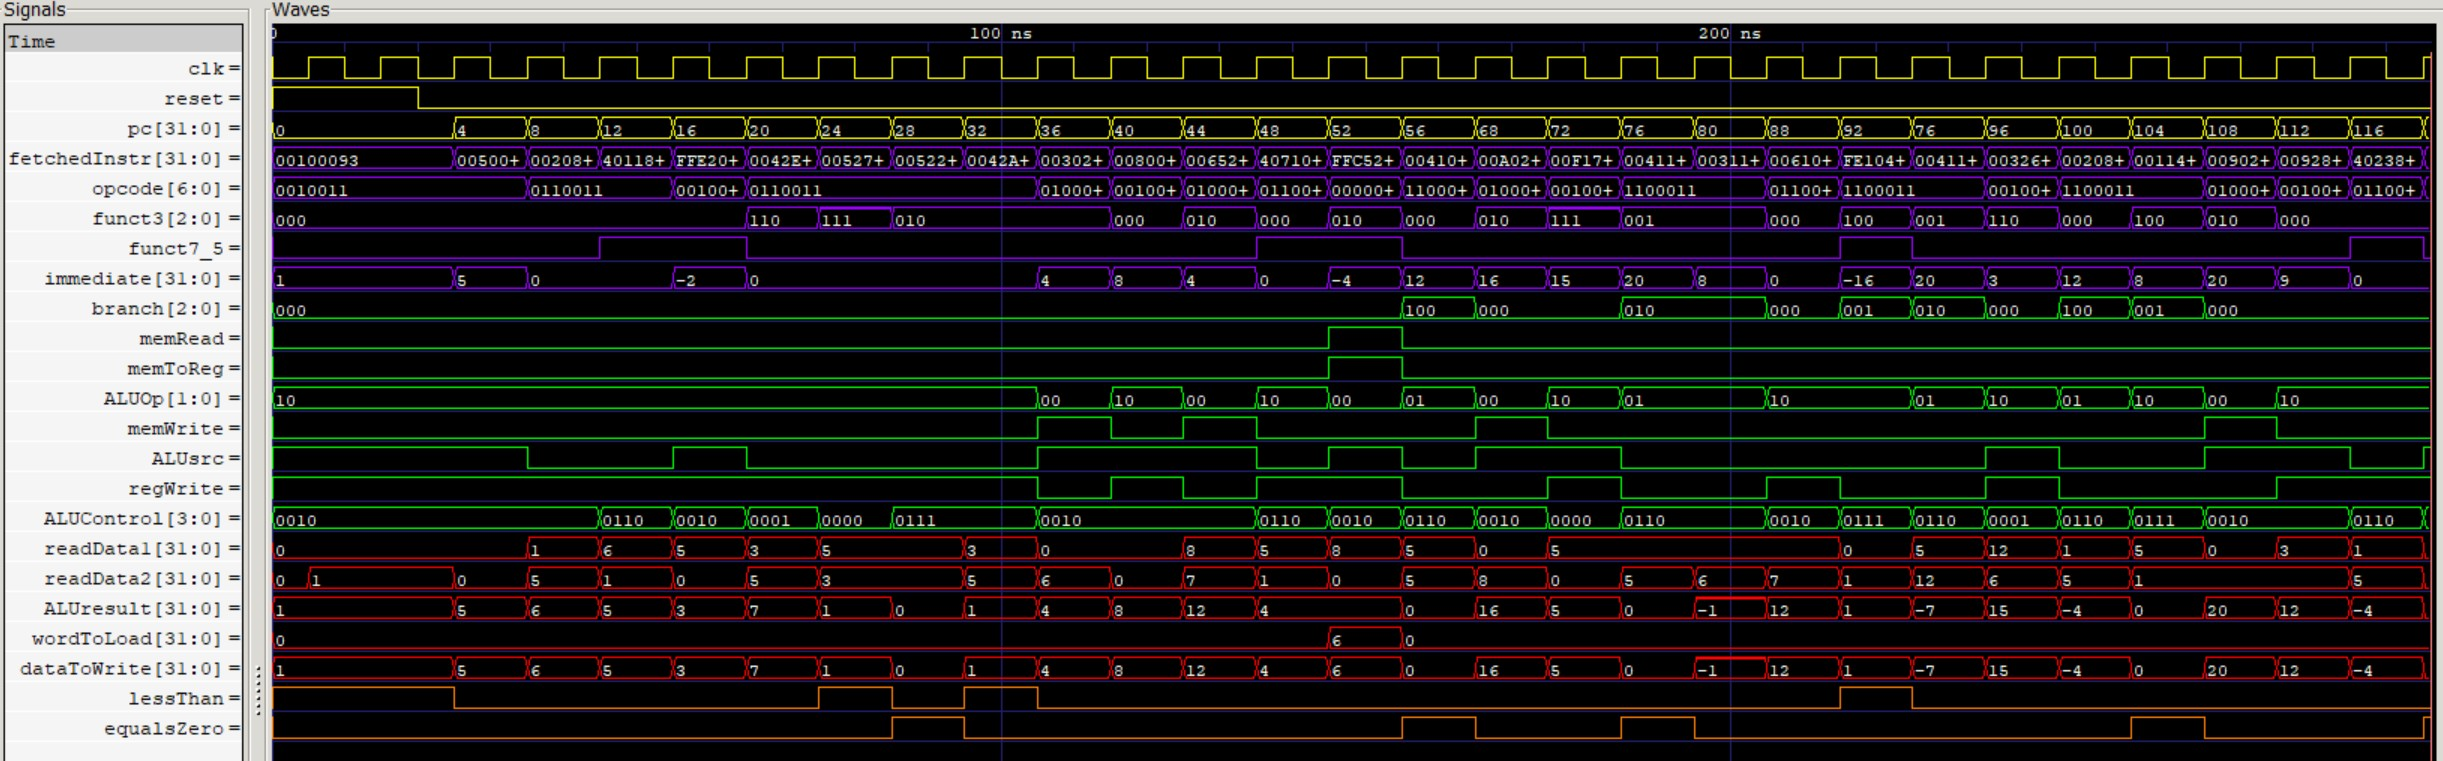
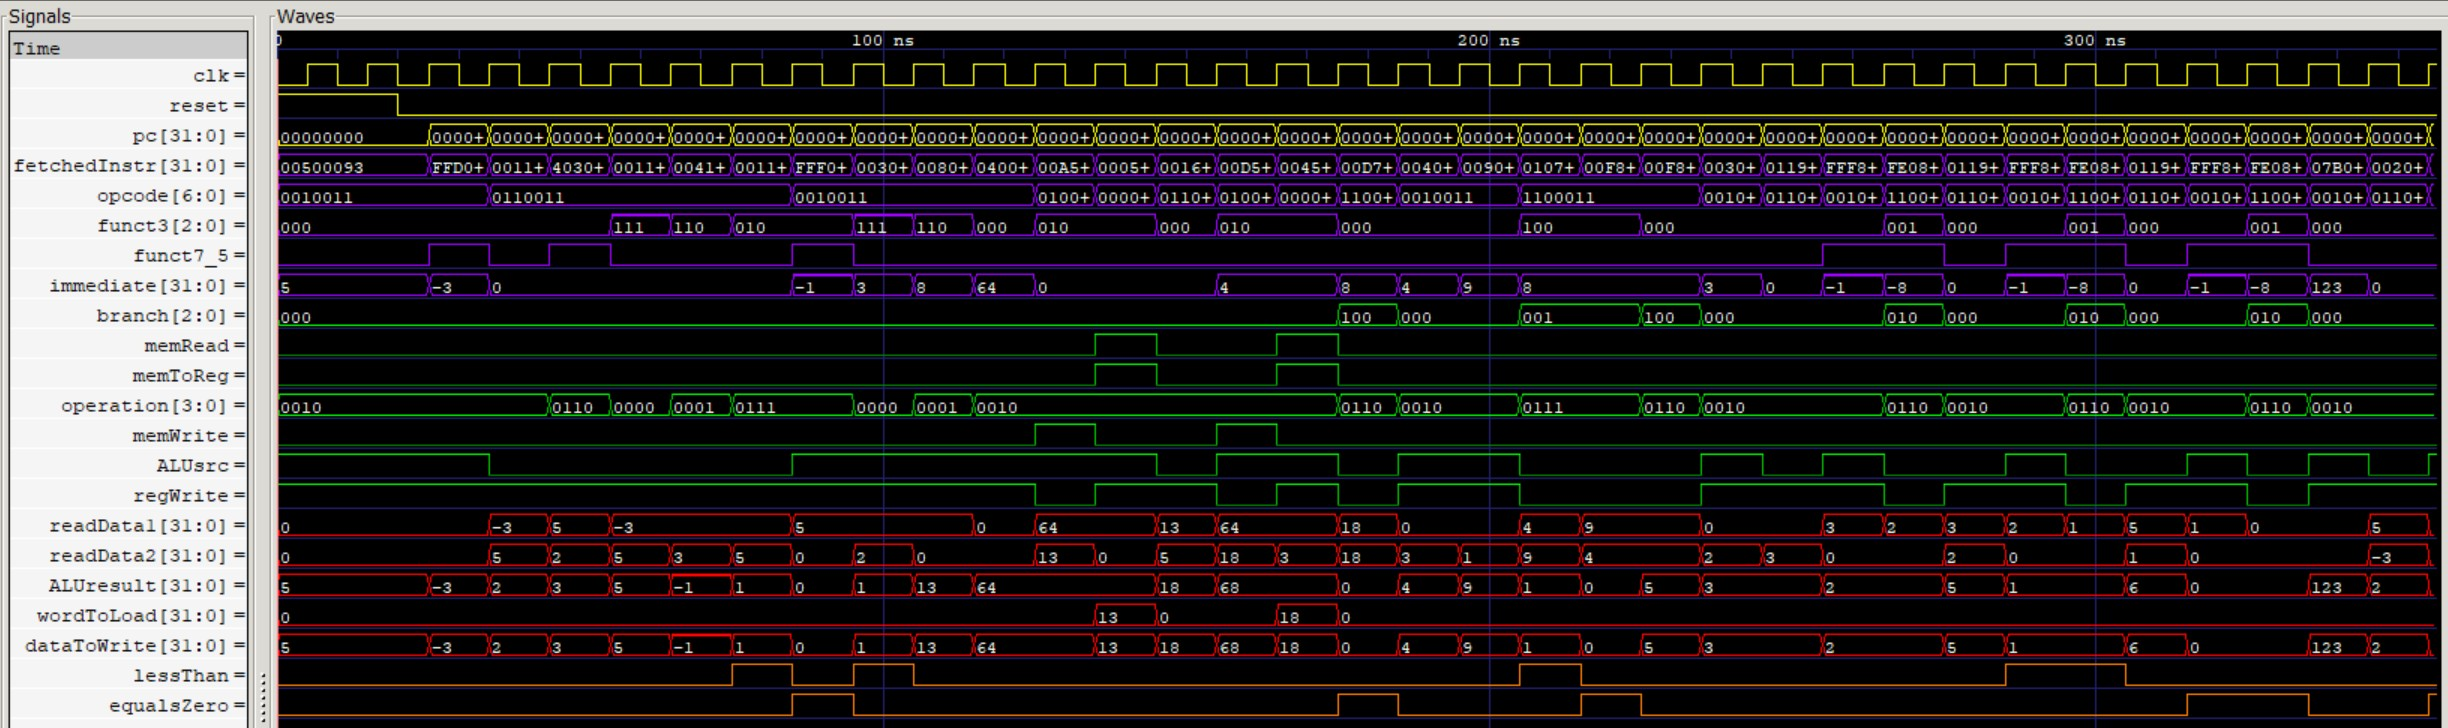
List the current test program on the testing lesson
The card still showed the program the CPU was verified against two revisions
ago. Swapped in the hazard-directed one, checked word for word against
program.mem, and refreshed the waveform beside it.

The coverage paragraph went with it: it promised a load with a negative offset,
which the old program had and the new one does not. It now describes the
store-then-load round trip the program actually performs.

diff --git a/single-cycle-cpu/testing/index.html b/single-cycle-cpu/testing/index.html
@@ -212,8 +212,8 @@
               <em>bne</em>, and <em>blt</em>. But running each one once is not enough, since
               many behave differently depending on their inputs. So a set less than is tried
               both true and false, an immediate add is given a positive value and a negative
-              one, a load uses a negative offset, and a write to <em>x0</em> checks that the
-              processor quietly ignores it.
+              one, a load reads back the value an earlier store placed at the same address,
+              and a write to <em>x0</em> checks that the processor quietly ignores it.
             </p>
 
             <p>
@@ -239,36 +239,36 @@
               <span class="code-editor__lang">program.mem</span>
             </figcaption>
             <div class="code-editor__body">
-              <pre class="code-editor__hl"><code>00100093  <span class="tok-cm">// addi x1, x0, 1</span>
-00500113  <span class="tok-cm">// addi x2, x0, 5</span>
-002081B3  <span class="tok-cm">// add x3, x1, x2</span>
-40118233  <span class="tok-cm">// sub x4, x3, x1</span>
-FFE20293  <span class="tok-cm">// addi x5, x4, -2</span>
-0042E333  <span class="tok-cm">// or x6, x5, x4</span>
-005273B3  <span class="tok-cm">// and x7, x4, x5</span>
-00522433  <span class="tok-cm">// slt x8, x4, x5</span>
-0042A4B3  <span class="tok-cm">// slt x9, x5, x4</span>
-00302223  <span class="tok-cm">// sw x3, 4(x0)</span>
-00800513  <span class="tok-cm">// addi x10, x0, 8</span>
-00652223  <span class="tok-cm">// sw x6, 4(x10)</span>
-407105B3  <span class="tok-cm">// sub x11, x2, x7</span>
-FFC52603  <span class="tok-cm">// lw x12, -4(x10)</span>
-00410663  <span class="tok-cm">// beq x2, x4, 12</span>
-003002B3  <span class="tok-cm">// add x5, x0, x3</span>
-00F17693  <span class="tok-cm">// andi x13, x2, 15</span>
-00A02823  <span class="tok-cm">// sw x10, 16(x0)</span>
-00F17713  <span class="tok-cm">// andi x14, x2, 15</span>
-00411A63  <span class="tok-cm">// bne x2, x4, 20</span>
-00311463  <span class="tok-cm">// bne x2, x3, 8</span>
-407105B3  <span class="tok-cm">// sub x11, x2, x7</span>
-00610233  <span class="tok-cm">// add x4, x2, x6</span>
-FE1048E3  <span class="tok-cm">// blt x0, x1, -16</span>
-00326793  <span class="tok-cm">// ori x15, x4, 3</span>
-00208663  <span class="tok-cm">// beq x1, x2, 12</span>
-00114463  <span class="tok-cm">// blt x2, x1, 8</span>
-00902A23  <span class="tok-cm">// sw x9, 20(x0)</span>
-00928013  <span class="tok-cm">// addi x0, x5, 9</span>
-40238833  <span class="tok-cm">// sub x16, x7, x2</span></code></pre>
+              <pre class="code-editor__hl"><code>00500093  <span class="tok-cm">// addi x1, x0, 5</span>
+FFD00113  <span class="tok-cm">// addi x2, x0, -3</span>
+001101B3  <span class="tok-cm">// add x3, x2, x1</span>
+40308233  <span class="tok-cm">// sub x4, x1, x3</span>
+001172B3  <span class="tok-cm">// and x5, x2, x1</span>
+00416333  <span class="tok-cm">// or x6, x2, x4</span>
+001123B3  <span class="tok-cm">// slt x7, x2, x1</span>
+FFF0A413  <span class="tok-cm">// slti x8, x1, -1</span>
+0030F493  <span class="tok-cm">// andi x9, x1, 3</span>
+0080E513  <span class="tok-cm">// ori x10, x1, 8</span>
+04000593  <span class="tok-cm">// addi x11, x0, 64</span>
+00A5A023  <span class="tok-cm">// sw x10, 0(x11)</span>
+0005A603  <span class="tok-cm">// lw x12, 0(x11)</span>
+001606B3  <span class="tok-cm">// add x13, x12, x1</span>
+00D5A223  <span class="tok-cm">// sw x13, 4(x11)</span>
+0045A703  <span class="tok-cm">// lw x14, 4(x11)</span>
+00D70463  <span class="tok-cm">// beq x14, x13, 8</span>
+06300093  <span class="tok-cm">// addi x1, x0, 99</span>
+00400793  <span class="tok-cm">// addi x15, x0, 4</span>
+00900813  <span class="tok-cm">// addi x16, x0, 9</span>
+0107C463  <span class="tok-cm">// blt x15, x16, 8</span>
+06300113  <span class="tok-cm">// addi x2, x0, 99</span>
+00F84463  <span class="tok-cm">// blt x16, x15, 8</span>
+00F80463  <span class="tok-cm">// beq x16, x15, 8</span>
+00300893  <span class="tok-cm">// addi x17, x0, 3</span>
+01190933  <span class="tok-cm">// add x18, x18, x17</span>
+FFF88893  <span class="tok-cm">// addi x17, x17, -1</span>
+FE089CE3  <span class="tok-cm">// bne x17, x0, -8</span>
+07B00013  <span class="tok-cm">// addi x0, x0, 123</span>
+00208033  <span class="tok-cm">// add x0, x1, x2</span></code></pre>
             </div>
           </figure>
         </div>
